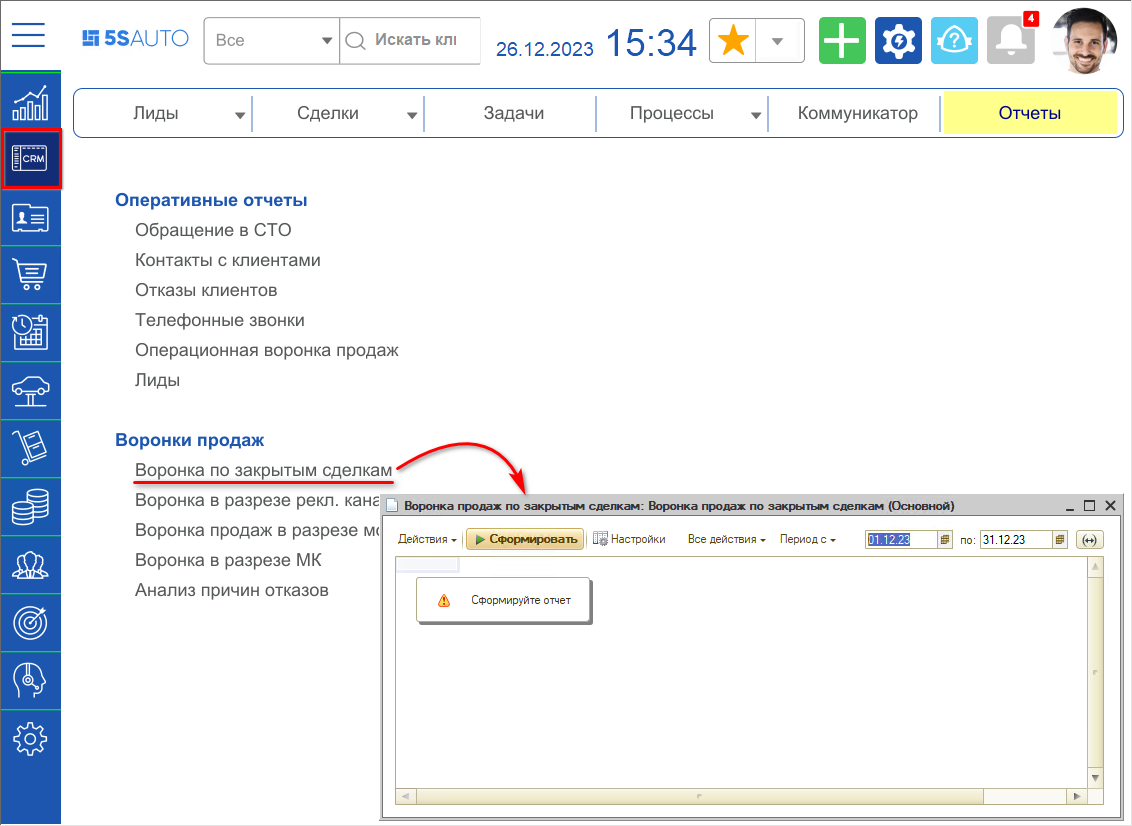
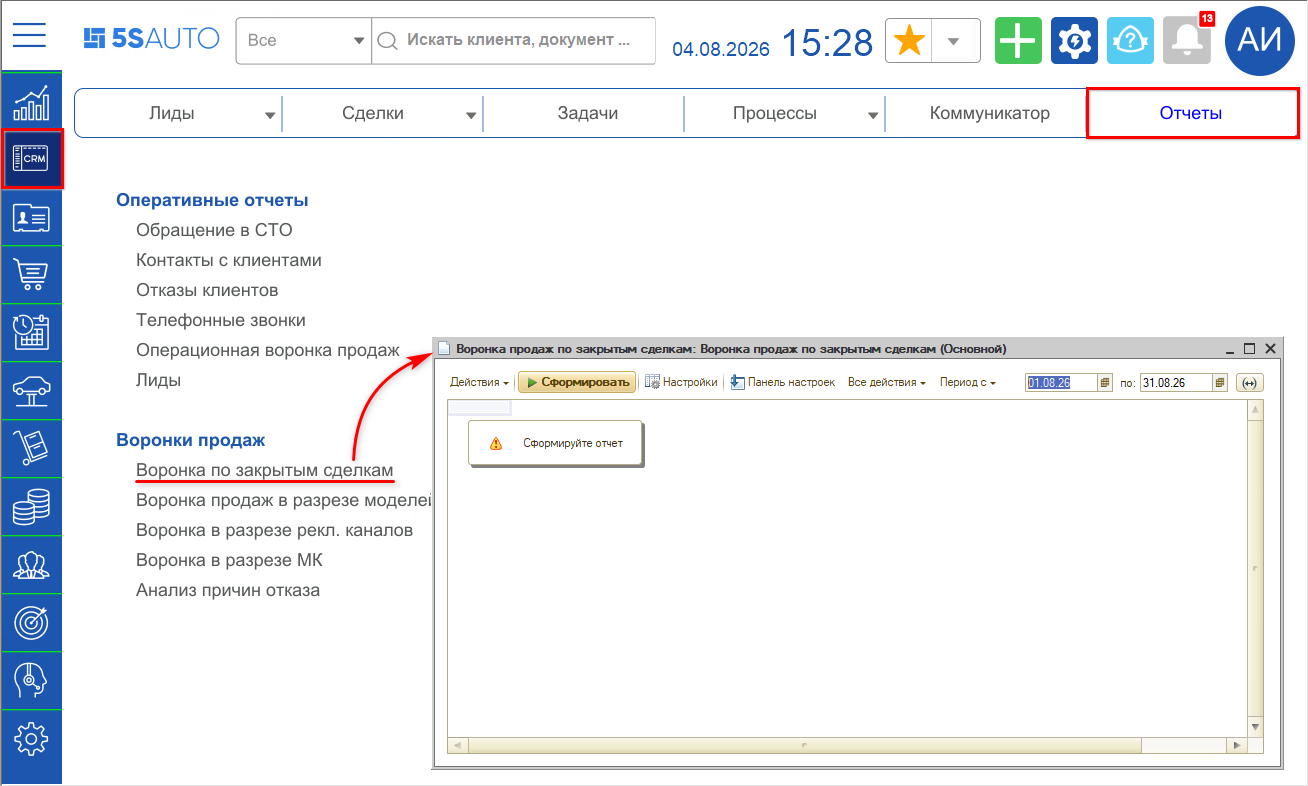
Refresh Воронка продаж по закрытым сделкам screenshots and text.
Both images were re-uploaded on the source article. The report layout
changed: the count column is now Сделок rather than Обр., a third
Итого block was added and rows group by администратор instead of
менеджер, so the description is rewritten to match. The menu path is
corrected to the current interface.

Changed region(s): [[0.0928, 0.2137, 1.0, 1.0], [0.0, 0.0, 1.0, 1.0], [0.371, 0.7023, 0.5256, 0.7634]]

diff --git a/knowledges/Уроки/kak-posmotret-kolichestvo-unikalnyh-klientov/kak-posmotret-kolichestvo-unikalnyh-klientov.md b/knowledges/Уроки/kak-posmotret-kolichestvo-unikalnyh-klientov/kak-posmotret-kolichestvo-unikalnyh-klientov.md
@@ -42,11 +42,11 @@
 
 Считает клиентов по обращениям (лидам и сделкам) и показывает, на каком этапе клиент ушел в отказ. В отчет попадают только закрытые сделки — с результатом в виде успешной продажи или зафиксированного отказа.
 
-Перейти к отчету: **CRM → вкладка «Отчеты» → Воронки продаж**.
+Перейти к отчету: **CRM → Отчеты → Воронки продаж → Воронка по закрытым сделкам**.
 
-![Переход к воронке продаж](attachments/06-voronka-zakrytye-perehod.png)
+![Переход к воронке продаж по закрытым сделкам](attachments/06-voronka-zakrytye-perehod.png)
 
-Итоговые значения группируются по признаку «Первичный/Повторный», поэтому по колонке «Обр.» видно количество первичных обращений за период:
+Задайте период в полях «Период с» и «по» и нажмите «Сформировать». Показатели выводятся тремя блоками — «Первичный», «Повторный» и «Итого», а строки группируются по подразделениям, администраторам и состояниям сделок. Количество первичных обращений за период видно в колонке «Сделок» блока «Первичный»:
 
 ![Отчет «Воронка продаж по закрытым сделкам»](attachments/07-voronka-zakrytye-otchet.png)
 
